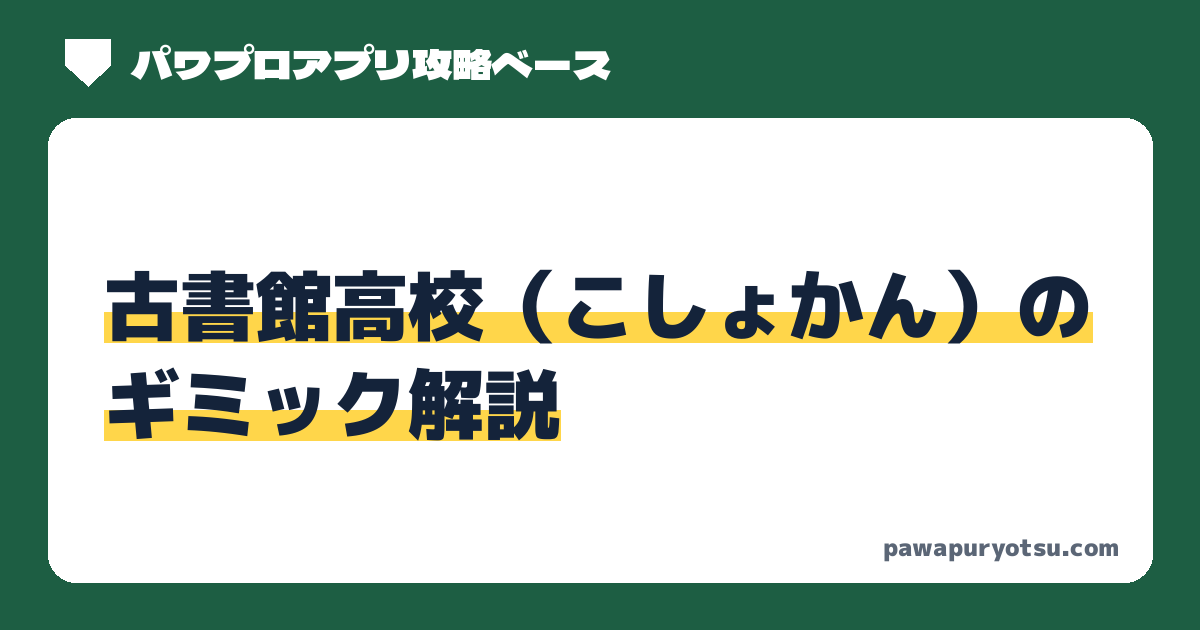
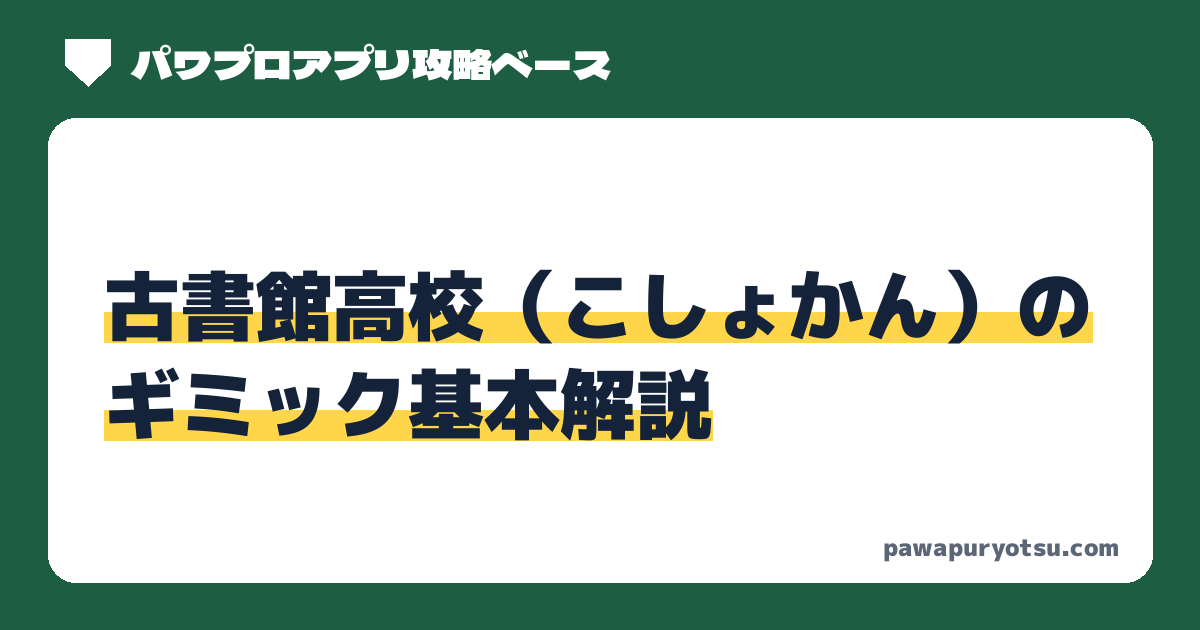
古書館：ギミック解説を「ギミック基本解説」に改名・SEO向けタイトルと説明文
Claude-Session: https://claude.ai/code/session_019YJeSyLc9cZchqD24323SF

Changed region(s): [[0.3392, 0.573, 0.6167, 0.7238]]

diff --git a/docs/success/koshokan/gimmick/index.html b/docs/success/koshokan/gimmick/index.html
@@ -4,13 +4,13 @@
 <meta charset="utf-8">
 <meta name="viewport" content="width=device-width,initial-scale=1,viewport-fit=cover">
 <meta name="color-scheme" content="light">
-<title>古書館高校（こしょかん）のギミック解説｜パワプロアプリ攻略ベース</title>
-<meta name="description" content="パワプロアプリのサクセス「古書館高校」のギミック解説です。指南書（本）・課題図書と自由図書・書庫とポスト・知恵レベル・読書計画イベントなどの仕組みをまとめています。">
+<title>古書館高校（こしょかん）のギミック基本解説｜指南書・書庫とポスト・知恵レベルの仕組み｜パワプロアプリ攻略ベース</title>
+<meta name="description" content="パワプロアプリのサクセス「古書館高校」のギミックを基本から解説。書庫・課題図書・自由図書・ポストをカードゲームに例えた図、最初の書庫、指南書の効果一覧、知恵レベル毎の出現本、経験点を増やすコツ、読書計画イベントをまとめています。">
 <link rel="canonical" href="https://pawapuryotsu.com/success/koshokan/gimmick/">
 <meta property="og:type" content="website">
 <meta property="og:site_name" content="パワプロアプリ攻略ベース">
-<meta property="og:title" content="古書館高校（こしょかん）のギミック解説｜パワプロアプリ攻略ベース">
-<meta property="og:description" content="パワプロアプリのサクセス「古書館高校」のギミック解説です。指南書（本）・課題図書と自由図書・書庫とポスト・知恵レベル・読書計画イベントなどの仕組みをまとめています。">
+<meta property="og:title" content="古書館高校（こしょかん）のギミック基本解説｜指南書・書庫とポスト・知恵レベルの仕組み｜パワプロアプリ攻略ベース">
+<meta property="og:description" content="パワプロアプリのサクセス「古書館高校」のギミックを基本から解説。書庫・課題図書・自由図書・ポストをカードゲームに例えた図、最初の書庫、指南書の効果一覧、知恵レベル毎の出現本、経験点を増やすコツ、読書計画イベントをまとめています。">
 <meta property="og:url" content="https://pawapuryotsu.com/success/koshokan/gimmick/">
 <meta property="og:image" content="https://pawapuryotsu.com/img/og/success_koshokan_gimmick.png">
 <meta property="og:image:width" content="1200">
@@ -29,7 +29,7 @@
 <script async src="https://pagead2.googlesyndication.com/pagead/js/adsbygoogle.js?client=ca-pub-8546020269968696" crossorigin="anonymous"></script>
 <script async src="https://www.googletagmanager.com/gtag/js?id=G-F98XGNW3LS"></script>
 <script>window.dataLayer=window.dataLayer||[];function gtag(){dataLayer.push(arguments)}gtag('js',new Date());gtag('config','G-F98XGNW3LS');</script><meta name="google-site-verification" content="ZgxID967oum-2Mm1F5BCX9gvQE_vNl2ZDbXXWfyYP10" />
-<script type="application/ld+json">{"@context": "https://schema.org", "@type": "BreadcrumbList", "itemListElement": [{"@type": "ListItem", "position": 1, "name": "トップ", "item": "https://pawapuryotsu.com/"}, {"@type": "ListItem", "position": 2, "name": "古書館高校", "item": "https://pawapuryotsu.com/success/koshokan/"}, {"@type": "ListItem", "position": 3, "name": "ギミック解説", "item": "https://pawapuryotsu.com/success/koshokan/gimmick/"}]}</script>
+<script type="application/ld+json">{"@context": "https://schema.org", "@type": "BreadcrumbList", "itemListElement": [{"@type": "ListItem", "position": 1, "name": "トップ", "item": "https://pawapuryotsu.com/"}, {"@type": "ListItem", "position": 2, "name": "古書館高校", "item": "https://pawapuryotsu.com/success/koshokan/"}, {"@type": "ListItem", "position": 3, "name": "ギミック基本解説", "item": "https://pawapuryotsu.com/success/koshokan/gimmick/"}]}</script>
 </head>
 <body data-root="../../../">
 <svg width="0" height="0" style="position:absolute" aria-hidden="true">
@@ -55,8 +55,8 @@
 </div></header>
 
 <main><div class="wrap" id="page">
-<nav class="crumbs" aria-label="パンくずリスト"><ol><li><a href="../../../">トップ</a></li><li><a href="../../../success/koshokan/">古書館高校</a></li><li aria-current="page">ギミック解説</li></ol></nav>
-<section class="phead"><p class="eyebrow">サクセス 古書館高校</p><h1><span class="mk"><i>ギミック解説</i></span></h1><p>古書館高校のギミック解説を<span class="cp-nw">まとめるページです。</span></p></section>
+<nav class="crumbs" aria-label="パンくずリスト"><ol><li><a href="../../../">トップ</a></li><li><a href="../../../success/koshokan/">古書館高校</a></li><li aria-current="page">ギミック基本解説</li></ol></nav>
+<section class="phead"><p class="eyebrow">サクセス 古書館高校</p><h1><span class="mk"><i>ギミック基本解説</i></span></h1><p>古書館高校のギミック基本解説を<span class="cp-nw">まとめるページです。</span></p></section>
 <div class="prose">
   <nav class="toc kc-toc" aria-label="このページの目次">
   <b>もくじ</b>
@@ -178,7 +178,7 @@
   <p class="sk-nav-h">古書館高校の攻略ページ</p>
   <div class="sk-grid sk-sp3">
     <a class="sk-c" href="../../../ranking/next_batter/"><span class="sk-th sk-img"><img src="../../../img/ranking/next_batter_thumb.jpg" alt="有能キャラ予想" loading="lazy"></span><span class="sk-l">有能キャラ<span class="cp-nw">予想</span></span><span class="sk-s"></span></a>
-    <span class="sk-c sk-cur" aria-current="page"><span class="sk-th sk-img"><img src="../../../img/success/koshokan_gimmick_thumb.jpg" alt="ギミック解説" loading="lazy"></span><span class="sk-l">ギミック<span class="cp-nw">解説</span></span><span class="sk-upd" data-end="2026-12-03T14:00:00+09:00">※11/26更新!</span><span class="sk-s"></span><span class="sk-now">表示中のページ</span></span>
+    <span class="sk-c sk-cur" aria-current="page"><span class="sk-th sk-img"><img src="../../../img/success/koshokan_gimmick_thumb.jpg" alt="ギミック基本解説" loading="lazy"></span><span class="sk-l">ギミック<span class="cp-nw">基本解説</span></span><span class="sk-upd" data-end="2026-12-03T14:00:00+09:00">※11/26更新!</span><span class="sk-s"></span><span class="sk-now">表示中のページ</span></span>
     <span class="sk-c sk-off"><span class="sk-th">画像準備中</span><span class="sk-l">立ち回り<span class="cp-nw">解説</span></span><span class="sk-wait">準備中</span></span>
     <span class="sk-fill sk-fill-pc" aria-hidden="true"></span>
   </div>

diff --git a/src/pages/success-koshokan-gimmick.html b/src/pages/success-koshokan-gimmick.html
@@ -1,12 +1,12 @@
 <!--
-title: 古書館高校（こしょかん）のギミック解説｜パワプロアプリ攻略ベース
-description: パワプロアプリのサクセス「古書館高校」のギミック解説です。指南書（本）・課題図書と自由図書・書庫とポスト・知恵レベル・読書計画イベントなどの仕組みをまとめています。
+title: 古書館高校（こしょかん）のギミック基本解説｜指南書・書庫とポスト・知恵レベルの仕組み｜パワプロアプリ攻略ベース
+description: パワプロアプリのサクセス「古書館高校」のギミックを基本から解説。書庫・課題図書・自由図書・ポストをカードゲームに例えた図、最初の書庫、指南書の効果一覧、知恵レベル毎の出現本、経験点を増やすコツ、読書計画イベントをまとめています。
 path: success/koshokan/gimmick/
 nav: koshokan
-crumb: ギミック解説
+crumb: ギミック基本解説
 sk_updated: 2026-11-26
 -->
-<section class="phead"><p class="eyebrow">サクセス 古書館高校</p><h1><span class="mk"><i>ギミック解説</i></span></h1><p>古書館高校のギミック解説を<span class="cp-nw">まとめるページです。</span></p></section>
+<section class="phead"><p class="eyebrow">サクセス 古書館高校</p><h1><span class="mk"><i>ギミック基本解説</i></span></h1><p>古書館高校のギミック基本解説を<span class="cp-nw">まとめるページです。</span></p></section>
 <div class="prose">
   <nav class="toc kc-toc" aria-label="このページの目次">
   <b>もくじ</b>
@@ -128,7 +128,7 @@ sk_updated: 2026-11-26
   <p class="sk-nav-h">古書館高校の攻略ページ</p>
   <div class="sk-grid sk-sp3">
     <a class="sk-c" href="{{root}}ranking/next_batter/"><span class="sk-th sk-img"><img src="{{root}}img/ranking/next_batter_thumb.jpg" alt="有能キャラ予想" loading="lazy"></span><span class="sk-l">有能キャラ<span class="cp-nw">予想</span></span><span class="sk-s"></span></a>
-    <span class="sk-c sk-cur" aria-current="page"><span class="sk-th sk-img"><img src="{{root}}img/success/koshokan_gimmick_thumb.jpg" alt="ギミック解説" loading="lazy"></span><span class="sk-l">ギミック<span class="cp-nw">解説</span></span><span class="sk-upd" data-end="2026-12-03T14:00:00+09:00">※11/26更新!</span><span class="sk-s"></span><span class="sk-now">表示中のページ</span></span>
+    <span class="sk-c sk-cur" aria-current="page"><span class="sk-th sk-img"><img src="{{root}}img/success/koshokan_gimmick_thumb.jpg" alt="ギミック基本解説" loading="lazy"></span><span class="sk-l">ギミック<span class="cp-nw">基本解説</span></span><span class="sk-upd" data-end="2026-12-03T14:00:00+09:00">※11/26更新!</span><span class="sk-s"></span><span class="sk-now">表示中のページ</span></span>
     <span class="sk-c sk-off"><span class="sk-th">画像準備中</span><span class="sk-l">立ち回り<span class="cp-nw">解説</span></span><span class="sk-wait">準備中</span></span>
     <span class="sk-fill sk-fill-pc" aria-hidden="true"></span>
   </div>

diff --git a/src/pages/success-koshokan.html b/src/pages/success-koshokan.html
@@ -25,7 +25,7 @@ recent_scenario: yes
   <p class="sk-nav-h">古書館高校の攻略ページ</p>
   <div class="sk-grid sk-sp3">
     <a class="sk-c" href="{{root}}ranking/next_batter/"><span class="sk-th sk-img"><img src="{{root}}img/ranking/next_batter_thumb.jpg" alt="有能キャラ予想" loading="lazy"></span><span class="sk-l">有能キャラ<span class="cp-nw">予想</span></span><span class="sk-s"></span></a>
-    <a class="sk-c" href="{{root}}success/koshokan/gimmick/"><span class="sk-th sk-img"><img src="{{root}}img/success/koshokan_gimmick_thumb.jpg" alt="ギミック解説" loading="lazy"></span><span class="sk-l">ギミック<span class="cp-nw">解説</span></span><span class="sk-upd" data-end="2026-12-03T14:00:00+09:00">※11/26更新!</span><span class="sk-s"></span></a>
+    <a class="sk-c" href="{{root}}success/koshokan/gimmick/"><span class="sk-th sk-img"><img src="{{root}}img/success/koshokan_gimmick_thumb.jpg" alt="ギミック基本解説" loading="lazy"></span><span class="sk-l">ギミック<span class="cp-nw">基本解説</span></span><span class="sk-upd" data-end="2026-12-03T14:00:00+09:00">※11/26更新!</span><span class="sk-s"></span></a>
     <span class="sk-c sk-off"><span class="sk-th">画像準備中</span><span class="sk-l">立ち回り<span class="cp-nw">解説</span></span><span class="sk-wait">準備中</span></span>
     <span class="sk-fill sk-fill-pc" aria-hidden="true"></span>
   </div>

diff --git a/src/pages/success-koshokan-tachimawari.html b/src/pages/success-koshokan-tachimawari.html
@@ -16,7 +16,7 @@ noindex: yes
   <p class="sk-nav-h">古書館高校の攻略ページ</p>
   <div class="sk-grid sk-sp3">
     <a class="sk-c" href="{{root}}ranking/next_batter/"><span class="sk-th sk-img"><img src="{{root}}img/ranking/next_batter_thumb.jpg" alt="有能キャラ予想" loading="lazy"></span><span class="sk-l">有能キャラ<span class="cp-nw">予想</span></span><span class="sk-s"></span></a>
-    <a class="sk-c" href="{{root}}success/koshokan/gimmick/"><span class="sk-th sk-img"><img src="{{root}}img/success/koshokan_gimmick_thumb.jpg" alt="ギミック解説" loading="lazy"></span><span class="sk-l">ギミック<span class="cp-nw">解説</span></span><span class="sk-upd" data-end="2026-12-03T14:00:00+09:00">※11/26更新!</span><span class="sk-s"></span></a>
+    <a class="sk-c" href="{{root}}success/koshokan/gimmick/"><span class="sk-th sk-img"><img src="{{root}}img/success/koshokan_gimmick_thumb.jpg" alt="ギミック基本解説" loading="lazy"></span><span class="sk-l">ギミック<span class="cp-nw">基本解説</span></span><span class="sk-upd" data-end="2026-12-03T14:00:00+09:00">※11/26更新!</span><span class="sk-s"></span></a>
     <span class="sk-c sk-off"><span class="sk-th">画像準備中</span><span class="sk-l">立ち回り<span class="cp-nw">解説</span></span><span class="sk-wait">準備中</span></span>
     <span class="sk-fill sk-fill-pc" aria-hidden="true"></span>
   </div>

diff --git a/docs/success/koshokan/tachimawari/index.html b/docs/success/koshokan/tachimawari/index.html
@@ -66,7 +66,7 @@
   <p class="sk-nav-h">古書館高校の攻略ページ</p>
   <div class="sk-grid sk-sp3">
     <a class="sk-c" href="../../../ranking/next_batter/"><span class="sk-th sk-img"><img src="../../../img/ranking/next_batter_thumb.jpg" alt="有能キャラ予想" loading="lazy"></span><span class="sk-l">有能キャラ<span class="cp-nw">予想</span></span><span class="sk-s"></span></a>
-    <a class="sk-c" href="../../../success/koshokan/gimmick/"><span class="sk-th sk-img"><img src="../../../img/success/koshokan_gimmick_thumb.jpg" alt="ギミック解説" loading="lazy"></span><span class="sk-l">ギミック<span class="cp-nw">解説</span></span><span class="sk-upd" data-end="2026-12-03T14:00:00+09:00">※11/26更新!</span><span class="sk-s"></span></a>
+    <a class="sk-c" href="../../../success/koshokan/gimmick/"><span class="sk-th sk-img"><img src="../../../img/success/koshokan_gimmick_thumb.jpg" alt="ギミック基本解説" loading="lazy"></span><span class="sk-l">ギミック<span class="cp-nw">基本解説</span></span><span class="sk-upd" data-end="2026-12-03T14:00:00+09:00">※11/26更新!</span><span class="sk-s"></span></a>
     <span class="sk-c sk-off"><span class="sk-th">画像準備中</span><span class="sk-l">立ち回り<span class="cp-nw">解説</span></span><span class="sk-wait">準備中</span></span>
     <span class="sk-fill sk-fill-pc" aria-hidden="true"></span>
   </div>

diff --git a/docs/success/koshokan/index.html b/docs/success/koshokan/index.html
@@ -72,7 +72,7 @@
   <p class="sk-nav-h">古書館高校の攻略ページ</p>
   <div class="sk-grid sk-sp3">
     <a class="sk-c" href="../../ranking/next_batter/"><span class="sk-th sk-img"><img src="../../img/ranking/next_batter_thumb.jpg" alt="有能キャラ予想" loading="lazy"></span><span class="sk-l">有能キャラ<span class="cp-nw">予想</span></span><span class="sk-s"></span></a>
-    <a class="sk-c" href="../../success/koshokan/gimmick/"><span class="sk-th sk-img"><img src="../../img/success/koshokan_gimmick_thumb.jpg" alt="ギミック解説" loading="lazy"></span><span class="sk-l">ギミック<span class="cp-nw">解説</span></span><span class="sk-upd" data-end="2026-12-03T14:00:00+09:00">※11/26更新!</span><span class="sk-s"></span></a>
+    <a class="sk-c" href="../../success/koshokan/gimmick/"><span class="sk-th sk-img"><img src="../../img/success/koshokan_gimmick_thumb.jpg" alt="ギミック基本解説" loading="lazy"></span><span class="sk-l">ギミック<span class="cp-nw">基本解説</span></span><span class="sk-upd" data-end="2026-12-03T14:00:00+09:00">※11/26更新!</span><span class="sk-s"></span></a>
     <span class="sk-c sk-off"><span class="sk-th">画像準備中</span><span class="sk-l">立ち回り<span class="cp-nw">解説</span></span><span class="sk-wait">準備中</span></span>
     <span class="sk-fill sk-fill-pc" aria-hidden="true"></span>
   </div>
